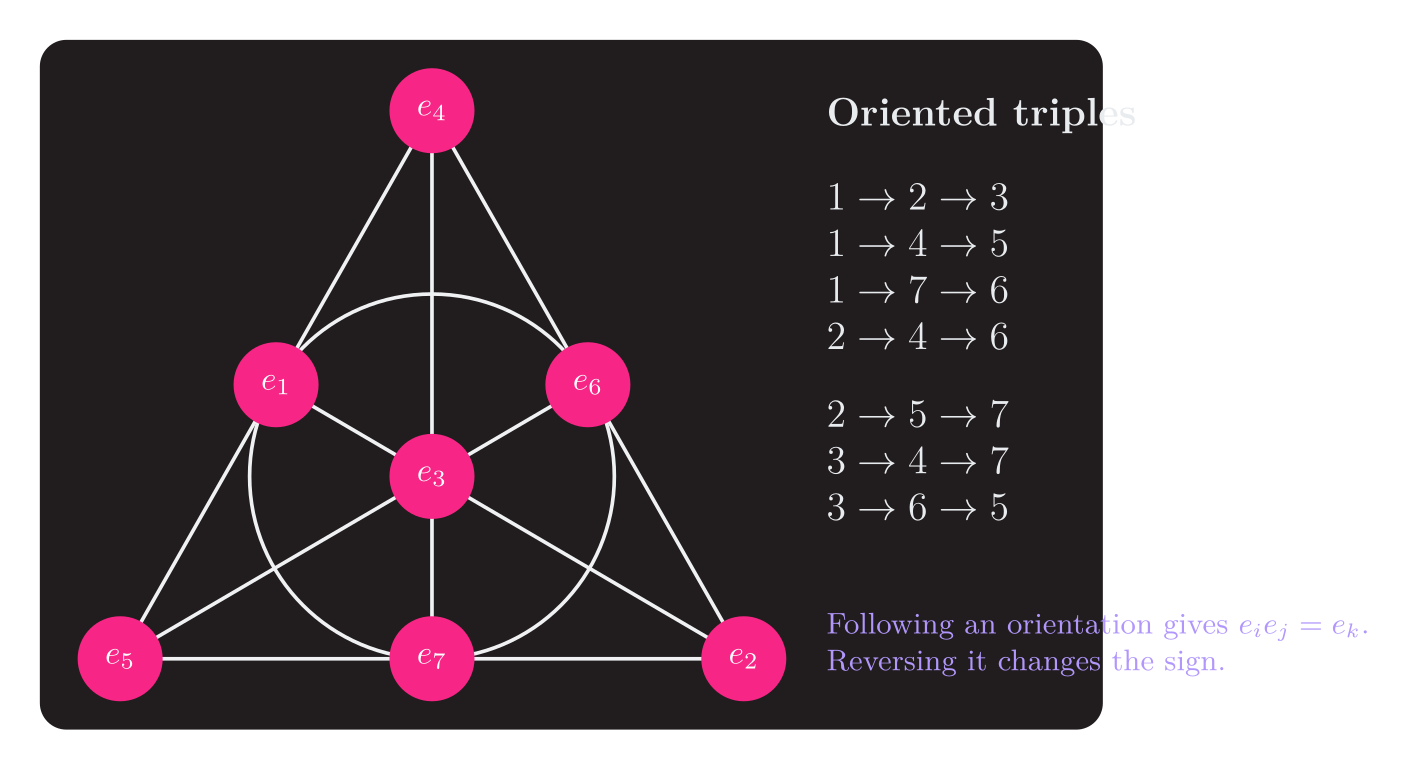
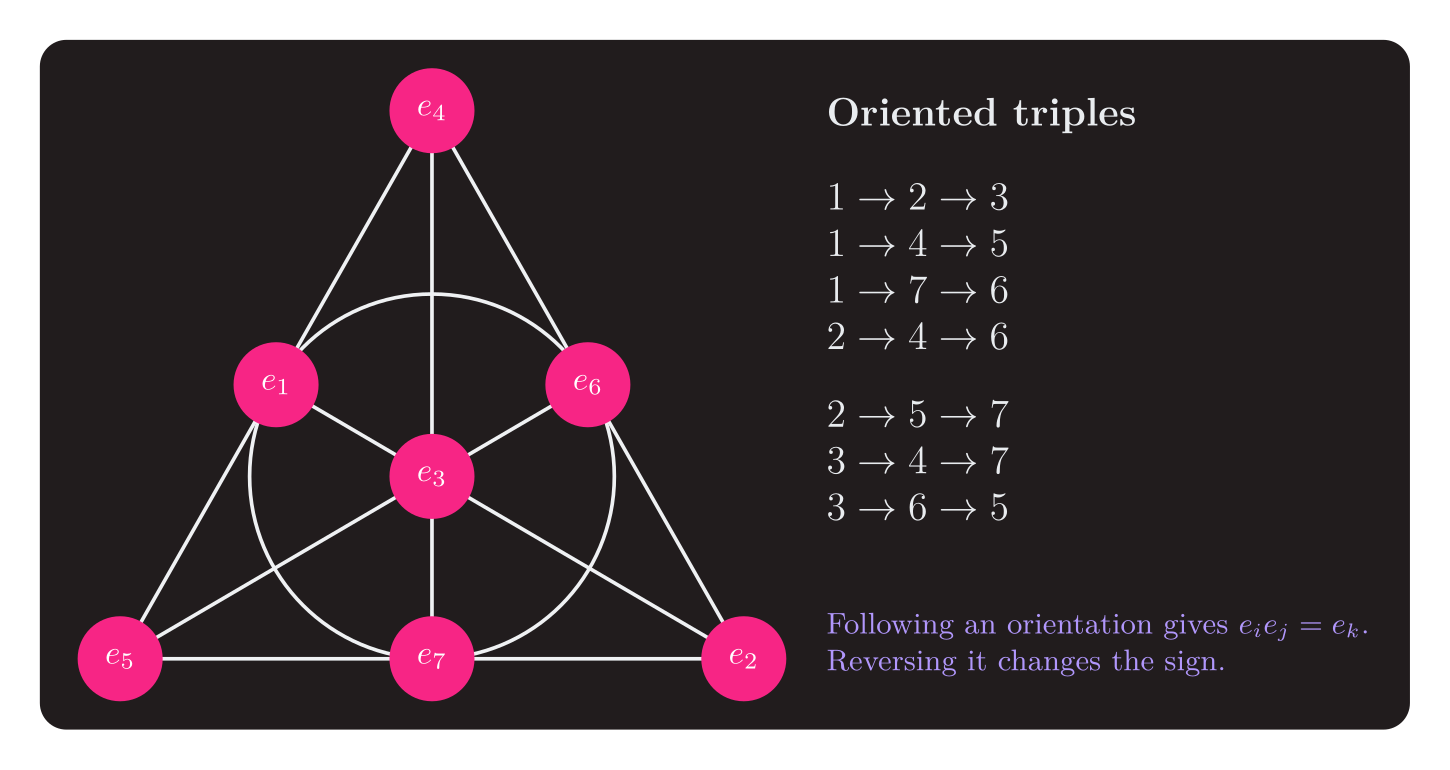
fix: prevent diagram text collisions

diff --git a/assets/diagrams/degradation/degradation-vs-promotion.tex b/assets/diagrams/degradation/degradation-vs-promotion.tex
@@ -5,14 +5,14 @@
 \begin{document}
 \begin{tikzpicture}[text=ink,state/.style={rounded corners=4pt,draw=blue,fill=panel,very thick,minimum width=3.25cm,minimum height=1.1cm,align=center},arrow/.style={-{Latex[length=3mm]},very thick},note/.style={font=\small,align=center,text=ink}]
  \node[state,draw=green] (published) {Published\\serviceable};
- \node[state,draw=amber,right=2.4cm of published] (degraded) {Published\\degraded};
- \draw[arrow,amber] (published)--node[above,note]{ingredient retired\\without replacement}(degraded);
- \node[note,right=.45cm of degraded] {membership and history\\remain visible};
+ \node[state,draw=amber,right=3cm of published] (degraded) {Published\\degraded};
+ \draw[arrow,amber] (published)--node[above=.12cm,note,text width=2.55cm]{ingredient retired\\without\\\mbox{replacement}}(degraded);
+ \node[note,right=.55cm of degraded,text width=2.7cm] {membership and history\\remain visible};
  \node[state,below=2.25cm of published] (draft) {Draft\\serviceable};
- \node[state,draw=red,right=2.4cm of draft] (blocked) {Draft\\known blocker};
+ \node[state,draw=red,right=3cm of draft] (blocked) {Draft\\known blocker};
  \draw[arrow,red] (draft)--node[above,note]{same loss}(blocked);
  \draw[arrow,green] (draft.west)++(-.2,0)--++(-1.3,0)--++(0,3.35)--node[left,note]{publish when\\ready}(published.west);
  \draw[arrow,red,dashed] (blocked)--node[left,note]{promotion\\rejected}(degraded);
- \node[font=\bfseries\large,text=ink] at (2.8,1.55) {Degradation preserves truth; promotion requires readiness};
+ \node[font=\bfseries\large,text=ink] at (3.1,1.65) {Degradation preserves truth; promotion requires readiness};
 \end{tikzpicture}
 \end{document}

diff --git a/assets/diagrams/actions/action-states.tex b/assets/diagrams/actions/action-states.tex
@@ -6,7 +6,7 @@
  \node[panel] (hidden) at (0,0) {\textbf{Permission denied}\\[.8cm]\textcolor{gray}{no control or shortcut}\\[.25cm]\small Visible = false};
  \node[panel,right=.7cm of hidden] (disabled) {\textbf{Authorized; prerequisite unmet}\\[.35cm]\tikz\node[button,draw=gray,fill=panel,text=gray]{Publish};\\[.2cm]\small ``Add at least one drink''};
  \node[panel,right=.7cm of disabled] (enabled) {\textbf{Authorized and ready}\\[.35cm]\tikz\node[button,draw=pink,fill=pink,text=white]{Publish};\\[.2cm]\small command rechecks on execution};
- \draw[-{Latex[length=2.7mm]},very thick,green] (hidden.south)++(0,-.5)--node[below,font=\small,text=ink]{permission succeeds}(disabled.south);
- \draw[-{Latex[length=2.7mm]},very thick,green] (disabled.south)++(0,-.5)--node[below,font=\small,text=ink]{conditions succeed}(enabled.south);
+ \draw[-{Latex[length=2.7mm]},very thick,green] (hidden.south east) to[bend right=18] node[below=.12cm,font=\small,text=ink]{permission succeeds} (disabled.south west);
+ \draw[-{Latex[length=2.7mm]},very thick,green] (disabled.south east) to[bend right=18] node[below=.12cm,font=\small,text=ink]{conditions succeed} (enabled.south west);
 \end{tikzpicture}
 \end{document}

diff --git a/assets/diagrams/linear-algebra/dimensions.tex b/assets/diagrams/linear-algebra/dimensions.tex
@@ -4,6 +4,7 @@
 \definecolor{red}{HTML}{FF6B6B}\definecolor{ink}{HTML}{E9ECEF}\definecolor{panel}{HTML}{211C1D}
 \begin{document}
 \begin{tikzpicture}[text=ink,matrix/.style={draw=blue,fill=panel,very thick,minimum width=2.3cm,minimum height=1.55cm,align=center,font=\Large},arrow/.style={-{Latex[length=3mm]},very thick}]
+ \path[use as bounding box] (-1.25,-1.75) rectangle (16.1,2.8);
  \node[font=\bfseries\large,text=ink] at (2.9,2.15) {The shared inner dimension is the proof};
  \node[matrix] (a) at (0,0) {$A$\\$m\times\color{pink}{n}$};
  \node[font=\Huge] at (1.55,0) {$\cdot$};
@@ -12,7 +13,7 @@
  \node[matrix,draw=green] at (7.1,0) {$AB$\\$m\times q$};
  \node[font=\small,text=green] at (2.9,-1.25) {the compiler unifies the two occurrences of $n$};
  \begin{scope}[xshift=9.7cm]
-  \node[font=\bfseries\large,text=ink] at (2.2,2.15) {A mismatch has no valid function call};
+  \node[font=\bfseries\large,text=ink,align=center,text width=6cm] at (2.55,2.15) {A mismatch has no valid function call};
   \node[matrix] at (0,0) {$A$\\$m\times\color{pink}{n}$};
   \node[font=\Huge] at (1.55,0) {$\cdot$};
   \node[matrix,draw=red] at (3.1,0) {$B$\\$\color{red}{p}\times q$};

diff --git a/assets/diagrams/arch-lint/enforced-boundary.tex b/assets/diagrams/arch-lint/enforced-boundary.tex
@@ -9,6 +9,6 @@
  \draw[bad] (as) to[bend left=34] node[above,sloped,font=\small,text=red]{cross-domain private import} (bi);
  \draw[bad] (bs) to[bend right=34] node[below,sloped,font=\small,text=red]{wrong surface + private import} (ai);
  \node[draw=red,very thick,rounded corners=3pt,fill=panel,below=1.1cm of bm,minimum width=5.1cm,minimum height=.8cm,align=center,font=\bfseries] {go tool arch-lint: build fails};
- \node[font=\bfseries\large,text=ink] at (5.1,1.45) {The repository turns boundary arrows into executable rules};
+ \node[font=\bfseries\large,text=ink] at (5.1,1.9) {The repository turns boundary arrows into executable rules};
 \end{tikzpicture}
 \end{document}

diff --git a/assets/diagrams/octonions/fano-plane.tex b/assets/diagrams/octonions/fano-plane.tex
@@ -7,7 +7,7 @@
  \coordinate (p4) at (0,3.8); \coordinate (p5) at (-3.3,-2); \coordinate (p2) at (3.3,-2);
  \coordinate (p1) at ($(p4)!.5!(p5)$); \coordinate (p6) at ($(p4)!.5!(p2)$);
  \coordinate (p7) at ($(p5)!.5!(p2)$); \coordinate (p3) at (0,-.07);
- \fill[panel,rounded corners=8pt] (-4.15,-2.75) rectangle (7.1,4.55);
+ \fill[panel,rounded corners=8pt] (-4.15,-2.75) rectangle (10.35,4.55);
  \draw[line] (p4)--(p5)--(p2)--cycle;
  \draw[line] (p1)--(p2); \draw[line] (p4)--(p7); \draw[line] (p5)--(p6);
  \draw[line] (0,-.07) circle (1.93cm);

diff --git a/assets/diagrams/riblt/peeling.tex b/assets/diagrams/riblt/peeling.tex
@@ -25,7 +25,7 @@
   \node[pure] (r103) at (1,-.45) {$C_1$\\reveals $103$};
   \node[pure] (r104) at (3.5,-.45) {$C_2$\\reveals $104$};
   \draw[peel] (r101.south) -- (r103.north west);
-  \node[below=1.05cm of r103,align=center,font=\small,text=ink]
+  \node[below=1.05cm of r103,align=center,font=\small,text=ink,text width=6.5cm]
    {Each solved symbol is XORed out of every cell it mapped to.\\New pure cells continue the queue until the difference is recovered.};
  \end{scope}
 \end{tikzpicture}
